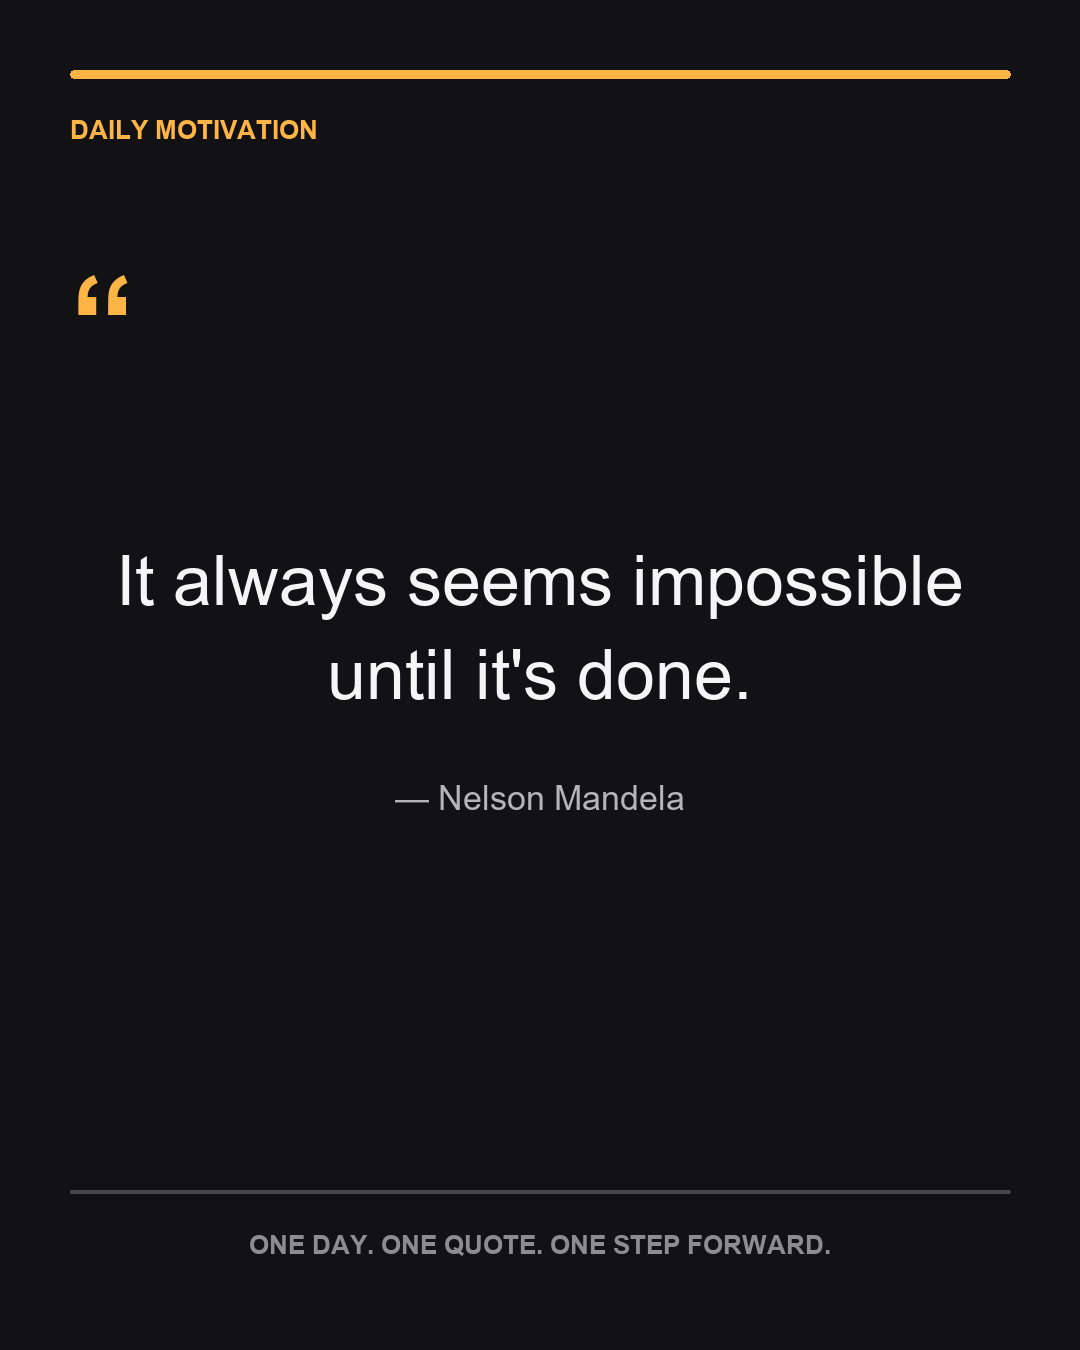
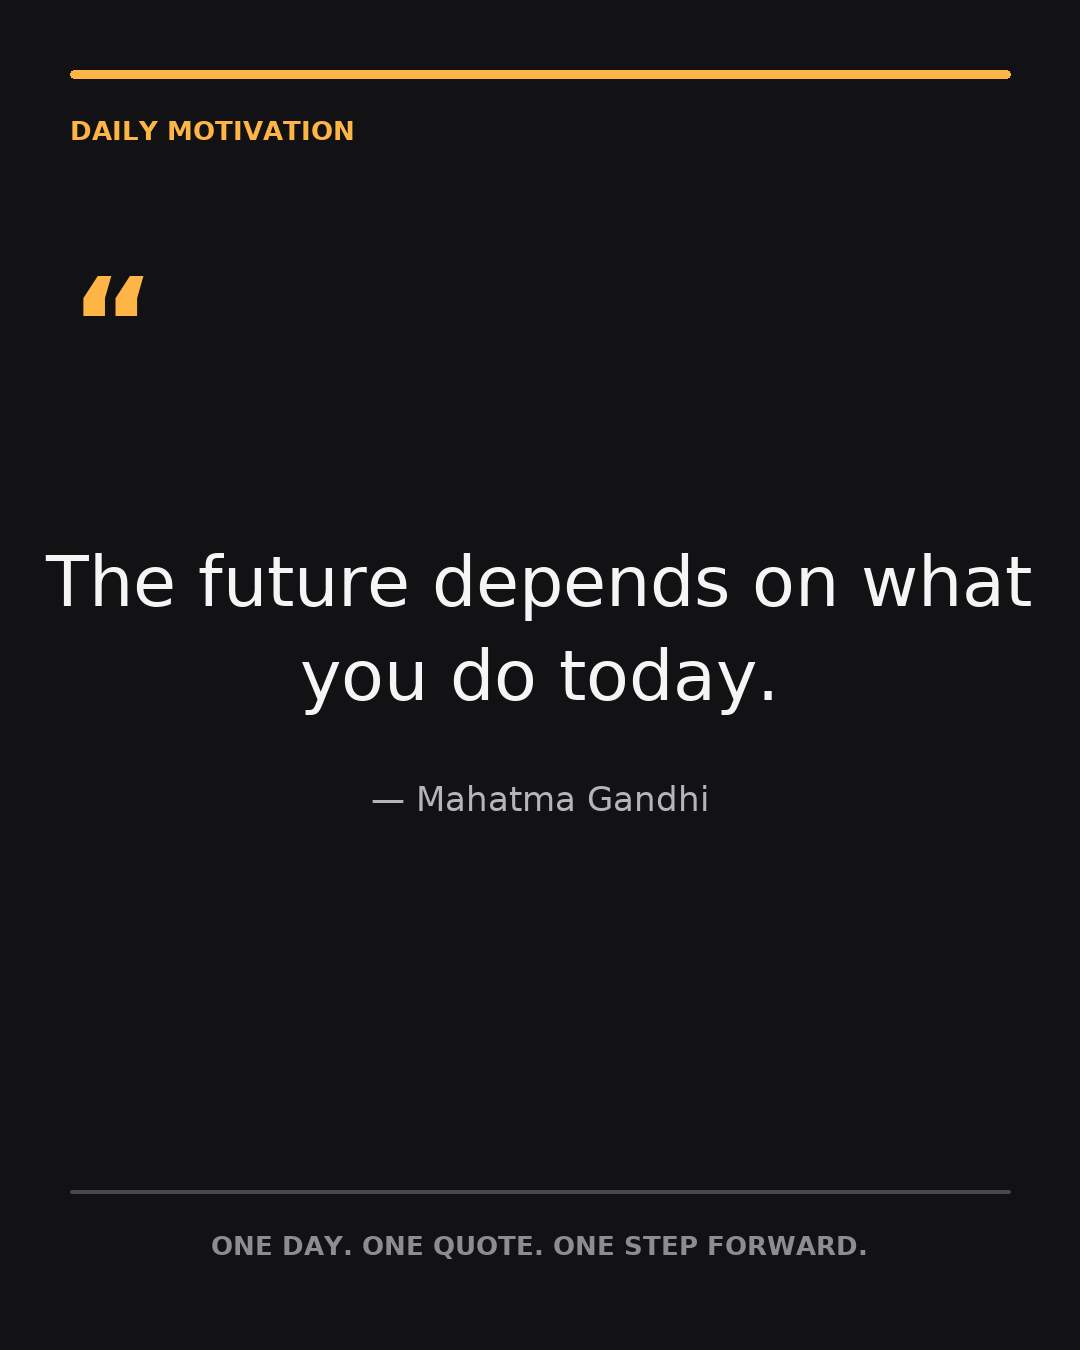
Fix poster generator font handling

diff --git a/app/poster_generator.py b/app/poster_generator.py
@@ -6,18 +6,48 @@ from datetime import datetime
 
 BASE_DIR = Path(__file__).resolve().parent.parent
 OUTPUT_DIR = BASE_DIR / "output"
+FONT_DIR = BASE_DIR / "fonts"
 
 WIDTH = 1080
 HEIGHT = 1350
 
 
+# --------------------------------------------------
+# Font paths
+# --------------------------------------------------
+
+REGULAR_FONT = FONT_DIR / "DejaVuSans.ttf"
+BOLD_FONT = FONT_DIR / "DejaVuSans-Bold.ttf"
+
+
 def load_font(path, size):
-    return ImageFont.truetype(path, size)
+    return ImageFont.truetype(str(path), size)
 
 
 def create_poster(quote):
+
     # --------------------------------------------------
-    # 1. Create canvas
+    # 1. Check fonts
+    # --------------------------------------------------
+
+    print("Font directory:", FONT_DIR)
+    print("Regular font:", REGULAR_FONT)
+    print("Regular font exists:", REGULAR_FONT.exists())
+    print("Bold font:", BOLD_FONT)
+    print("Bold font exists:", BOLD_FONT.exists())
+
+    if not REGULAR_FONT.exists():
+        raise FileNotFoundError(
+            f"Regular font not found: {REGULAR_FONT}"
+        )
+
+    if not BOLD_FONT.exists():
+        raise FileNotFoundError(
+            f"Bold font not found: {BOLD_FONT}"
+        )
+
+    # --------------------------------------------------
+    # 2. Create canvas
     # --------------------------------------------------
 
     image = Image.new(
@@ -27,31 +57,6 @@ def create_poster(quote):
     )
 
     draw = ImageDraw.Draw(image)
-
-# --------------------------------------------------
-# 2. Font paths
-# --------------------------------------------------
-
-FONT_DIR = BASE_DIR / "fonts"
-
-regular_font_path = FONT_DIR / "DejaVuSans.ttf"
-bold_font_path = FONT_DIR / "DejaVuSans-Bold.ttf"
-
-print("Font directory:", FONT_DIR)
-print("Regular font:", regular_font_path)
-print("Regular font exists:", regular_font_path.exists())
-print("Bold font:", bold_font_path)
-print("Bold font exists:", bold_font_path.exists())
-
-if not regular_font_path.exists():
-    raise FileNotFoundError(
-        f"Regular font not found: {regular_font_path}"
-    )
-
-if not bold_font_path.exists():
-    raise FileNotFoundError(
-        f"Bold font not found: {bold_font_path}"
-    )
 
     # --------------------------------------------------
     # 3. Adaptive quote font
@@ -69,23 +74,22 @@ if not bold_font_path.exists():
         quote_size = 46
 
     quote_font = load_font(
-        regular_font_path,
+        REGULAR_FONT,
         quote_size
     )
 
-    # Other fonts
     author_font = load_font(
-        regular_font_path,
+        REGULAR_FONT,
         34
     )
 
     brand_font = load_font(
-        bold_font_path,
+        BOLD_FONT,
         26
     )
 
     quote_mark_font = load_font(
-        bold_font_path,
+        BOLD_FONT,
         130
     )
 
@@ -141,6 +145,7 @@ if not bold_font_path.exists():
     )
 
     # Center quote vertically
+
     start_y = (
         (HEIGHT - total_height) // 2
         - 40
